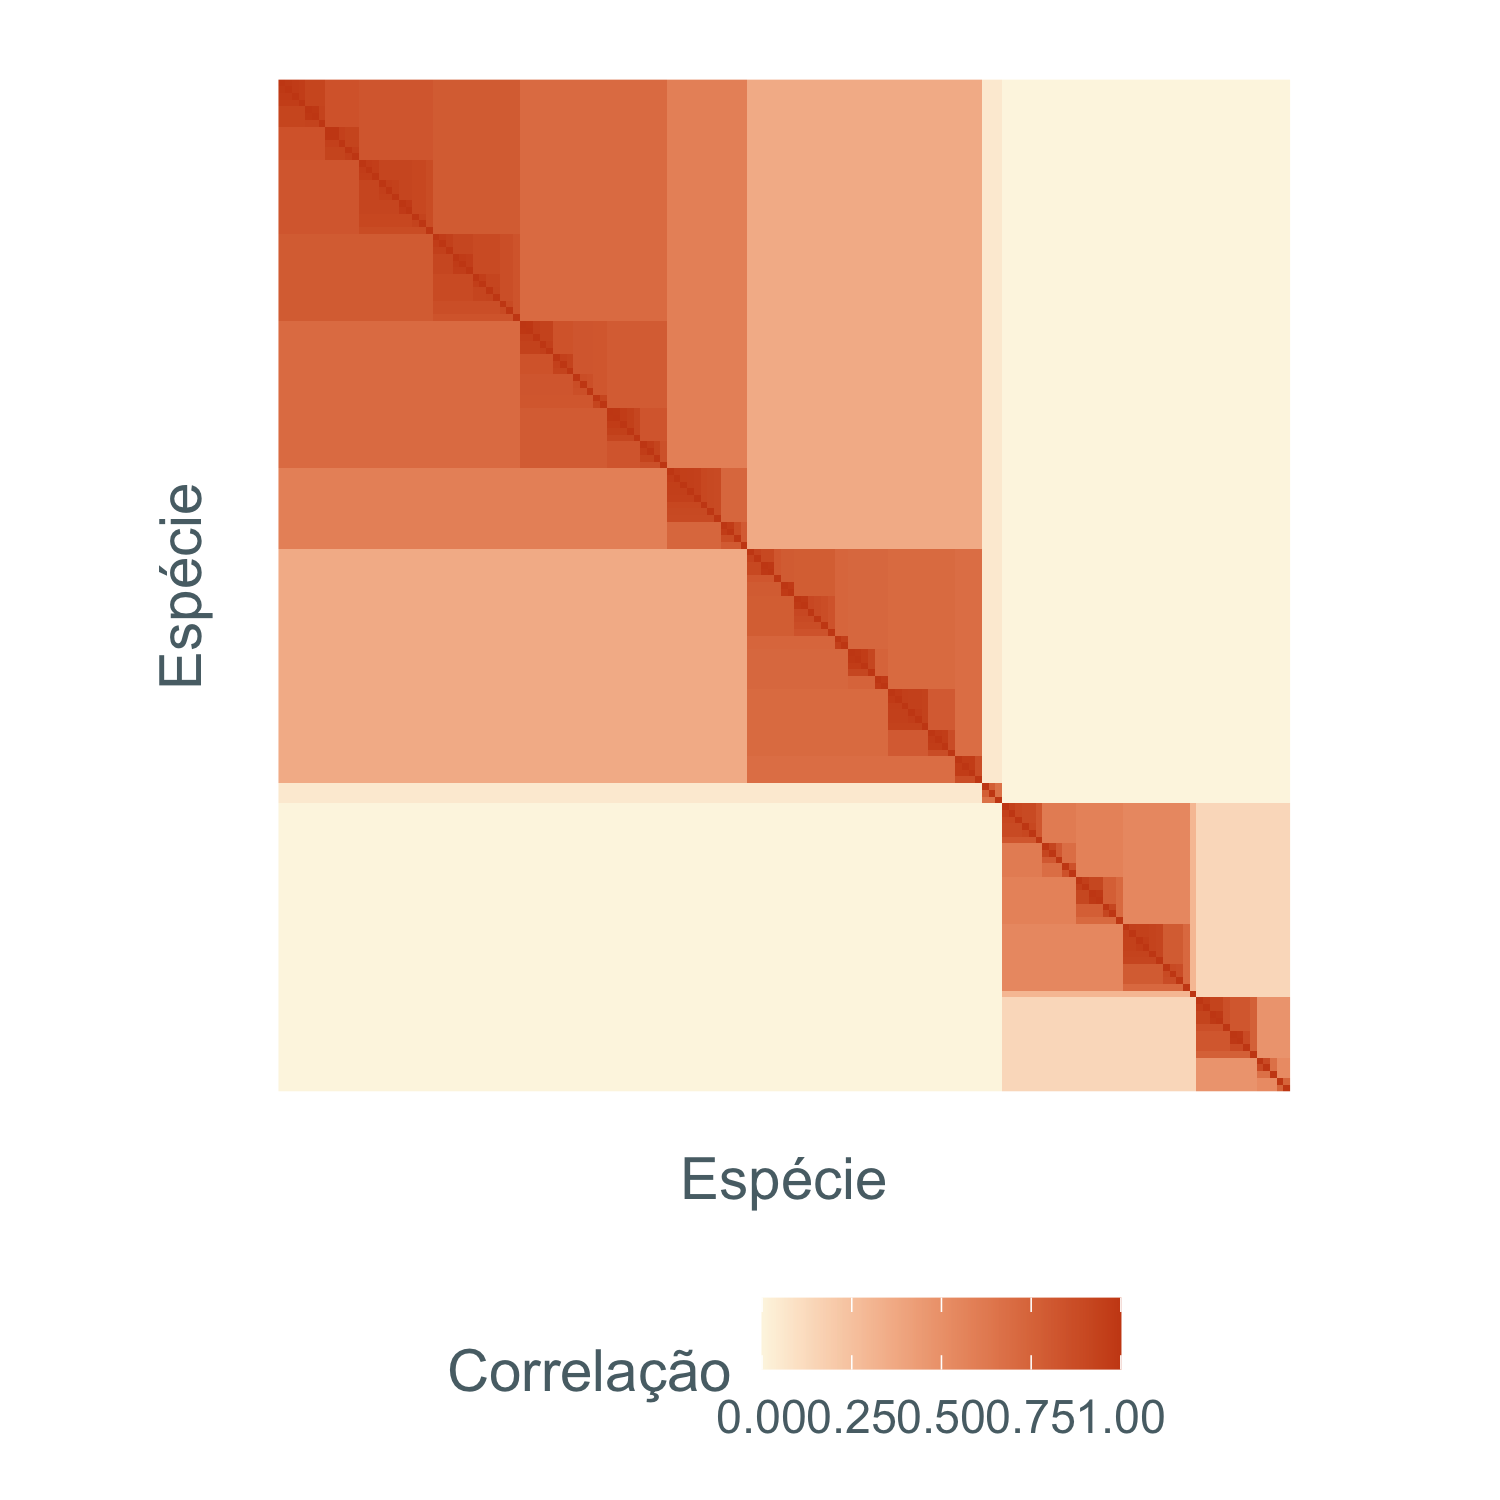
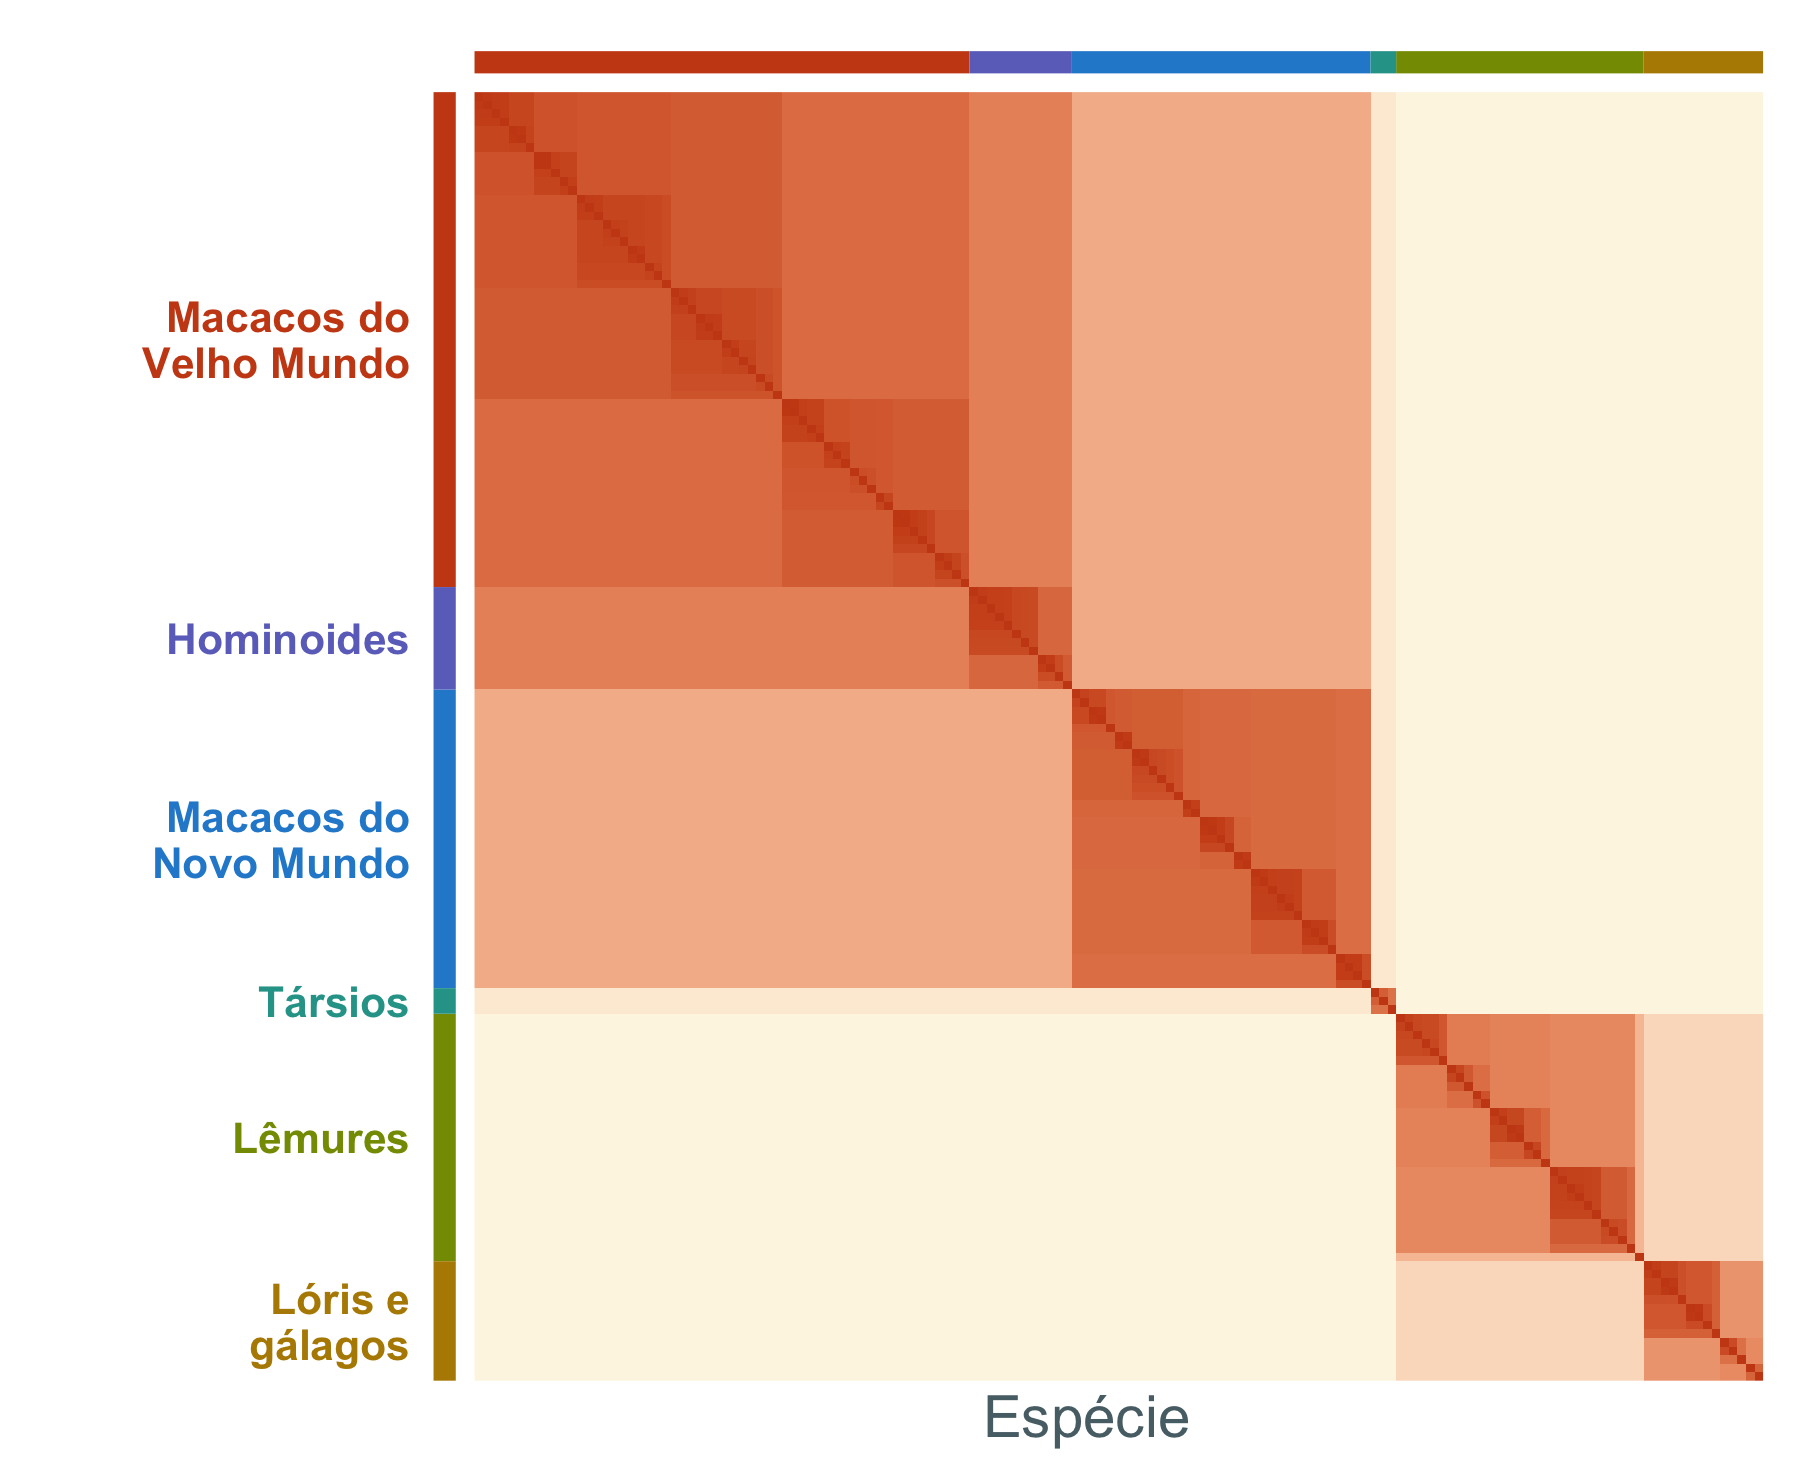
Aula filogenética: grupos de primatas na árvore e na matriz
Árvore em leque com ramos coloridos e arcos para macacos do Velho e do
Novo Mundo, hominoides, társios, lêmures e lóris e gálagos. A matriz de
correlação filogenética ganha faixas com os mesmos grupos e perde a
escala de cor, para ficar maior.

diff --git a/Aulas/Aula_modelos_filogeneticos_animal.html b/Aulas/Aula_modelos_filogeneticos_animal.html
@@ -343,7 +343,7 @@ dat_list$R &lt;- V / max(V)
 ]
 
 .texto-dir[
-&lt;img src="Aula_modelos_filogeneticos_animal_files/figure-html/plot-R-1.png" alt="" width="90%" /&gt;
+&lt;img src="Aula_modelos_filogeneticos_animal_files/figure-html/plot-R-1.png" alt="" width="100%" /&gt;
 ]
 
 ---
